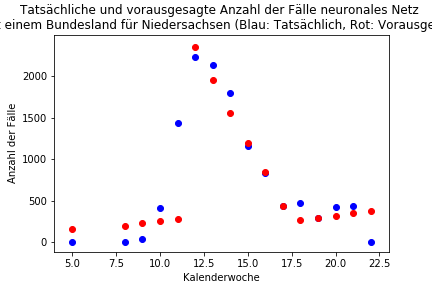
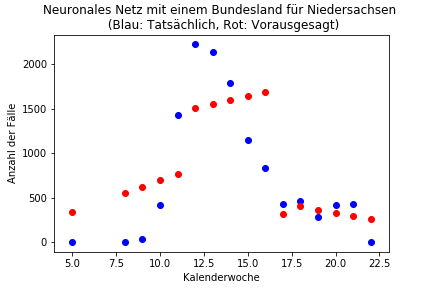
Anpassung der Strings der Abbildungen

diff --git a/Bundesland_knn_linReg_linBaum.py b/Bundesland_knn_linReg_linBaum.py
@@ -289,7 +289,7 @@ def predictData(covid_data, kalenderwoche, column_to_predict, massnahmenJN, bund
     lin_plt.scatter(kalenderwoche_to_plot, test_prediction, color = 'red')
     lin_plt.ylabel(str_to_predict)
     lin_plt.xlabel('Kalenderwoche')
-    lin_plt.title('Tatsächliche und vorausgesagte '+str_to_predict+' lineare Regression \n mit einem Bundesland für ' +bundesland + '(Blau: Tatsächlich, Rot: Vorausgesagt)')
+    lin_plt.title('Lineare Regression mit einem Bundesland für ' +bundesland + '\n(Blau: Tatsächlich, Rot: Vorausgesagt)')
     
     lin_plt.savefig("Result\\" + 'Bundesland_knn_linReg_linBaum_lineare_Regression_' +bundesland+ '_'+str_to_predict+".png")
     lin_plt.show()
@@ -315,7 +315,7 @@ def predictData(covid_data, kalenderwoche, column_to_predict, massnahmenJN, bund
     tree_plt.scatter(kalenderwoche_to_plot, test_prediction, color = 'red')
     tree_plt.ylabel(str_to_predict)
     tree_plt.xlabel('Kalenderwoche')
-    tree_plt.title('Tatsächliche und vorausgesagte '+str_to_predict+' Baum \n mit einem Bundesland für ' +bundesland + '(Blau: Tatsächlich, Rot: Vorausgesagt)')
+    tree_plt.title('Baum mit einem Bundesland für ' +bundesland + '\n(Blau: Tatsächlich, Rot: Vorausgesagt)')
     
     tree_plt.savefig("Result\\" + 'Bundesland_knn_linReg_linBaum_Baum_' +bundesland+ '_'+str_to_predict+".png")
     tree_plt.show()
@@ -337,7 +337,7 @@ def predictData(covid_data, kalenderwoche, column_to_predict, massnahmenJN, bund
     plt.scatter(kalenderwoche_to_plot, test_prediction, color = 'red')
     plt.ylabel(str_to_predict)
     plt.xlabel('Kalenderwoche')
-    plt.title('Tatsächliche und vorausgesagte '+str_to_predict+' neuronales Netz \n mit einem Bundesland für ' +bundesland + ' (Blau: Tatsächlich, Rot: Vorausgesagt)')
+    plt.title('Neuronales Netz mit einem Bundesland für ' +bundesland + ' \n (Blau: Tatsächlich, Rot: Vorausgesagt)')
     
     plt.savefig("Result\\" + 'Bundesland_knn_linReg_linBaum_neuronales_Netz_' +bundesland+ '_'+str_to_predict+".png")
     plt.show()

diff --git a/onehot_Bundesland_knn_linReg_linBaum.py b/onehot_Bundesland_knn_linReg_linBaum.py
@@ -179,13 +179,13 @@ def predictData(covid_data, kalenderwoche, column_to_predict, massnahmenJN):
     plt.scatter(kalenderwoche_to_plot, test_prediction, color = 'red')
     plt.ylabel(str_to_predict)
     plt.xlabel('Kalenderwoche')
-    plt.title('Tatsächliche und vorausgesagte '+str_to_predict+' neuronales Netz \n von allen Bundesländern (Blau: Tatsächlich, Rot: Vorausgesagt)')
+    plt.title('Neuronales Netz (alle Bundesländer (one-hot)) \n (Blau: tats., Rot: voraus.)')
    
     plt.savefig("Result\\" + 'onehot_Bundesland_knn_linreg_linBaum_neuronales_Netz_alle_bundesländer'+ ".png")
     plt.show()
    
 def predict_Data(covid_data, kalenderwoche, data_to_predict, massnahmenJN):
-    print('Vorhersage von '+data_to_predict+ 'für alle Bundesländer mit der linearen Regression, dem Baum und dem neuronalen Netzwerk anhand von Onehot-coding der Bundesländer.')
+    print('Vorhersage von '+data_to_predict+ 'für alle Bundesländer mit der linearen Regression, dem Baum und dem neuronalen Netzwerk anhand von Onehotencoding der Bundesländer.')
     dataframe = prepareData(covid_data)
     predictData(dataframe, kalenderwoche, data_to_predict, massnahmenJN)
     

diff --git a/knn_bundeslaender.py b/knn_bundeslaender.py
@@ -121,7 +121,7 @@ def predict_data(covid_data, column_to_predict, kalenderwoche, grossveranstaltun
     plt8.scatter(kalenderwoche_to_plot, test_prediction[:,8], color = 'red')
     plt8.ylabel(str_to_predict)
     plt8.xlabel('Kalenderwoche')
-    plt8.title('Tatsächliche und vorausgesagte '+str_to_predict+' neuronales Netz \n mit Output von allen Fällen für Niedersachsen (Blau: Tatsächlich, Rot: Vorausgesagt)')
+    plt8.title('Nneuronales Netz (mit Output von allen Fällen) \n für Niedersachsen (Blau: Tatsächlich, Rot: Vorausgesagt)')
       
     u.save_model(mlp_regr, 'knn_bundeslaender_hiddenlayersize_'+str(my_hiddenlayer_size))
     plt8.savefig("Result\\" + 'knn_bundeslaender_neuronales_netz_niedersachsen_'+str_to_predict + ".png")
